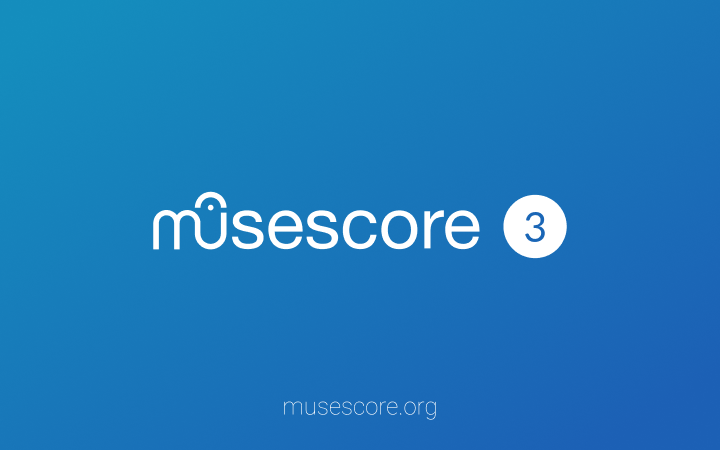
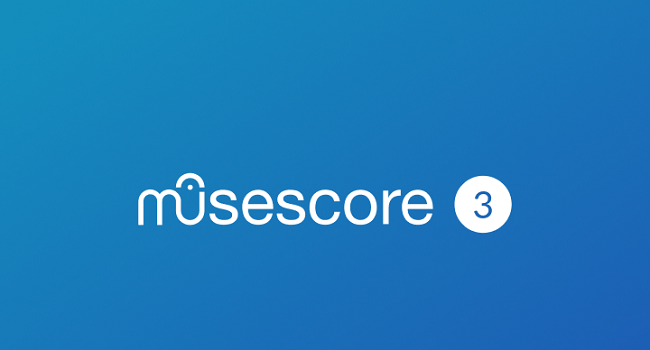
Cambiando resolucion imagenes prueba
Se han cambiando a 650x350 a las imágenes de prueba

Changed region(s): [[0.2154, 0.4286, 0.8, 0.6857], [0.4, 0.8857, 0.6154, 0.9429]]

diff --git a/resources/views/layouts/template.blade.php b/resources/views/layouts/template.blade.php
@@ -58,7 +58,7 @@
             <div class="container px-4 px-lg-5 h-100">
                 <div class="row gx-4 gx-lg-5 h-100 align-items-center justify-content-center text-center">
                     <div class="col-lg-8 align-self-end">
-                        <img class="d-inline-block align-middle mr-2"  width="15%" height="15%" alt="" src="assets/logo_white.png"/>
+                        <img class="d-inline-block align-middle mr-2"  width="10%" height="10%" alt="" src="assets/logo_white.png"/>
                         <h1 class="text-white font-weight-bold">Your Band Music</h1>
                         <hr class="divider" />
                     </div>
@@ -175,7 +175,9 @@
                 </div>
             </div>
         </section>
+
         <!-- Portfolio-->
+        
         <div id="portfolio">
             <div class="row gx-4 gx-lg-5 justify-content-center">
                 <div class="col-lg-8 text-center">
